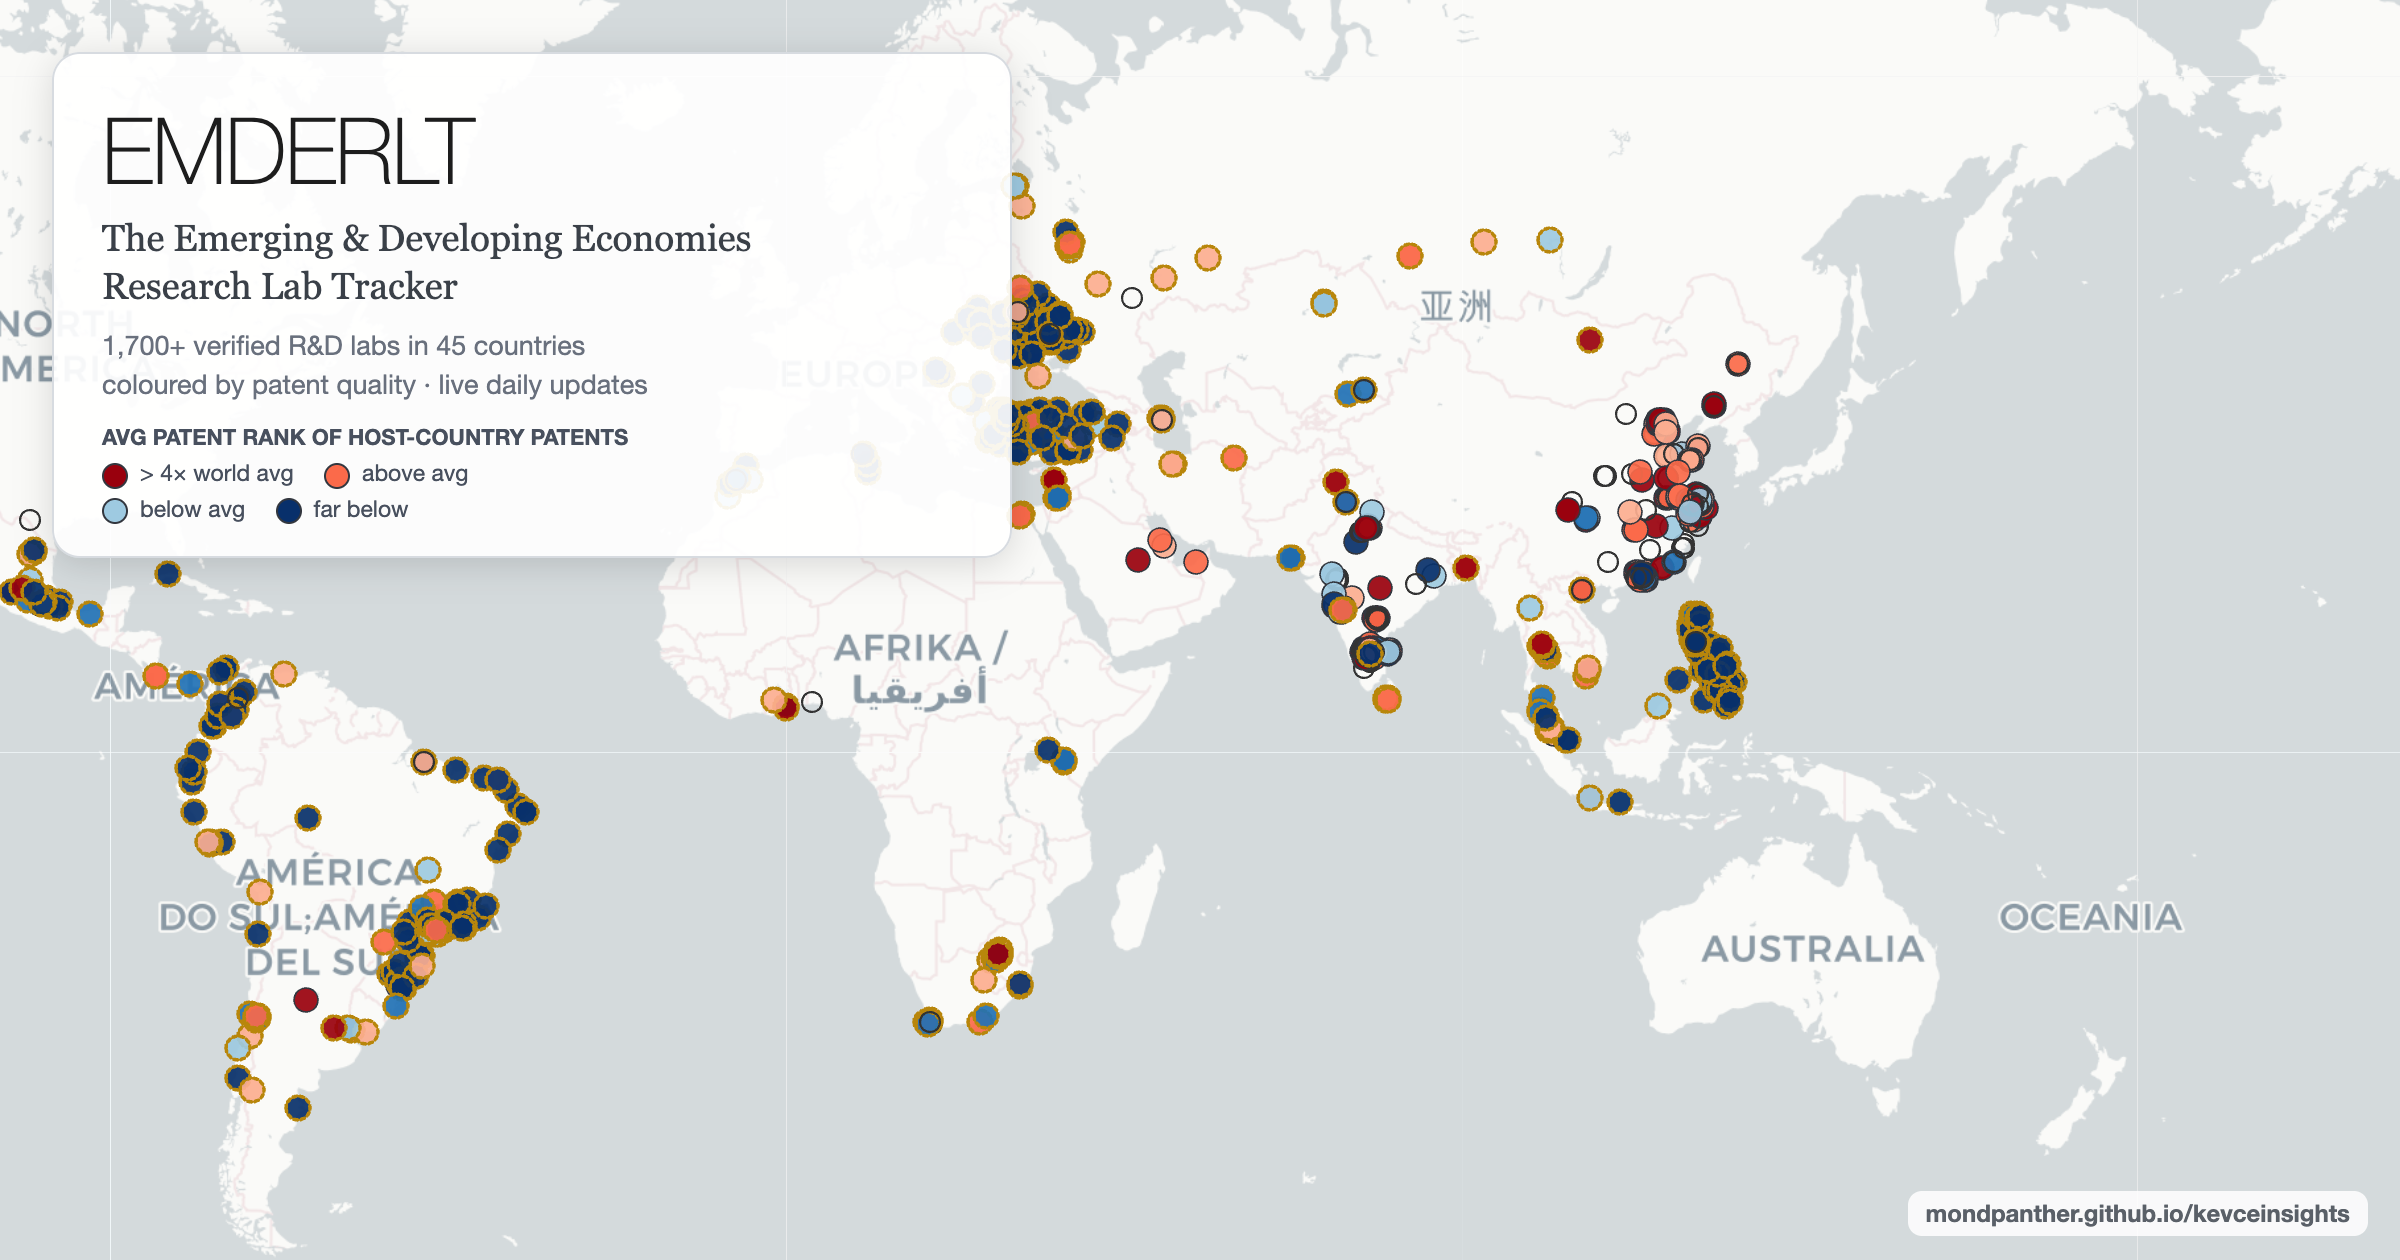
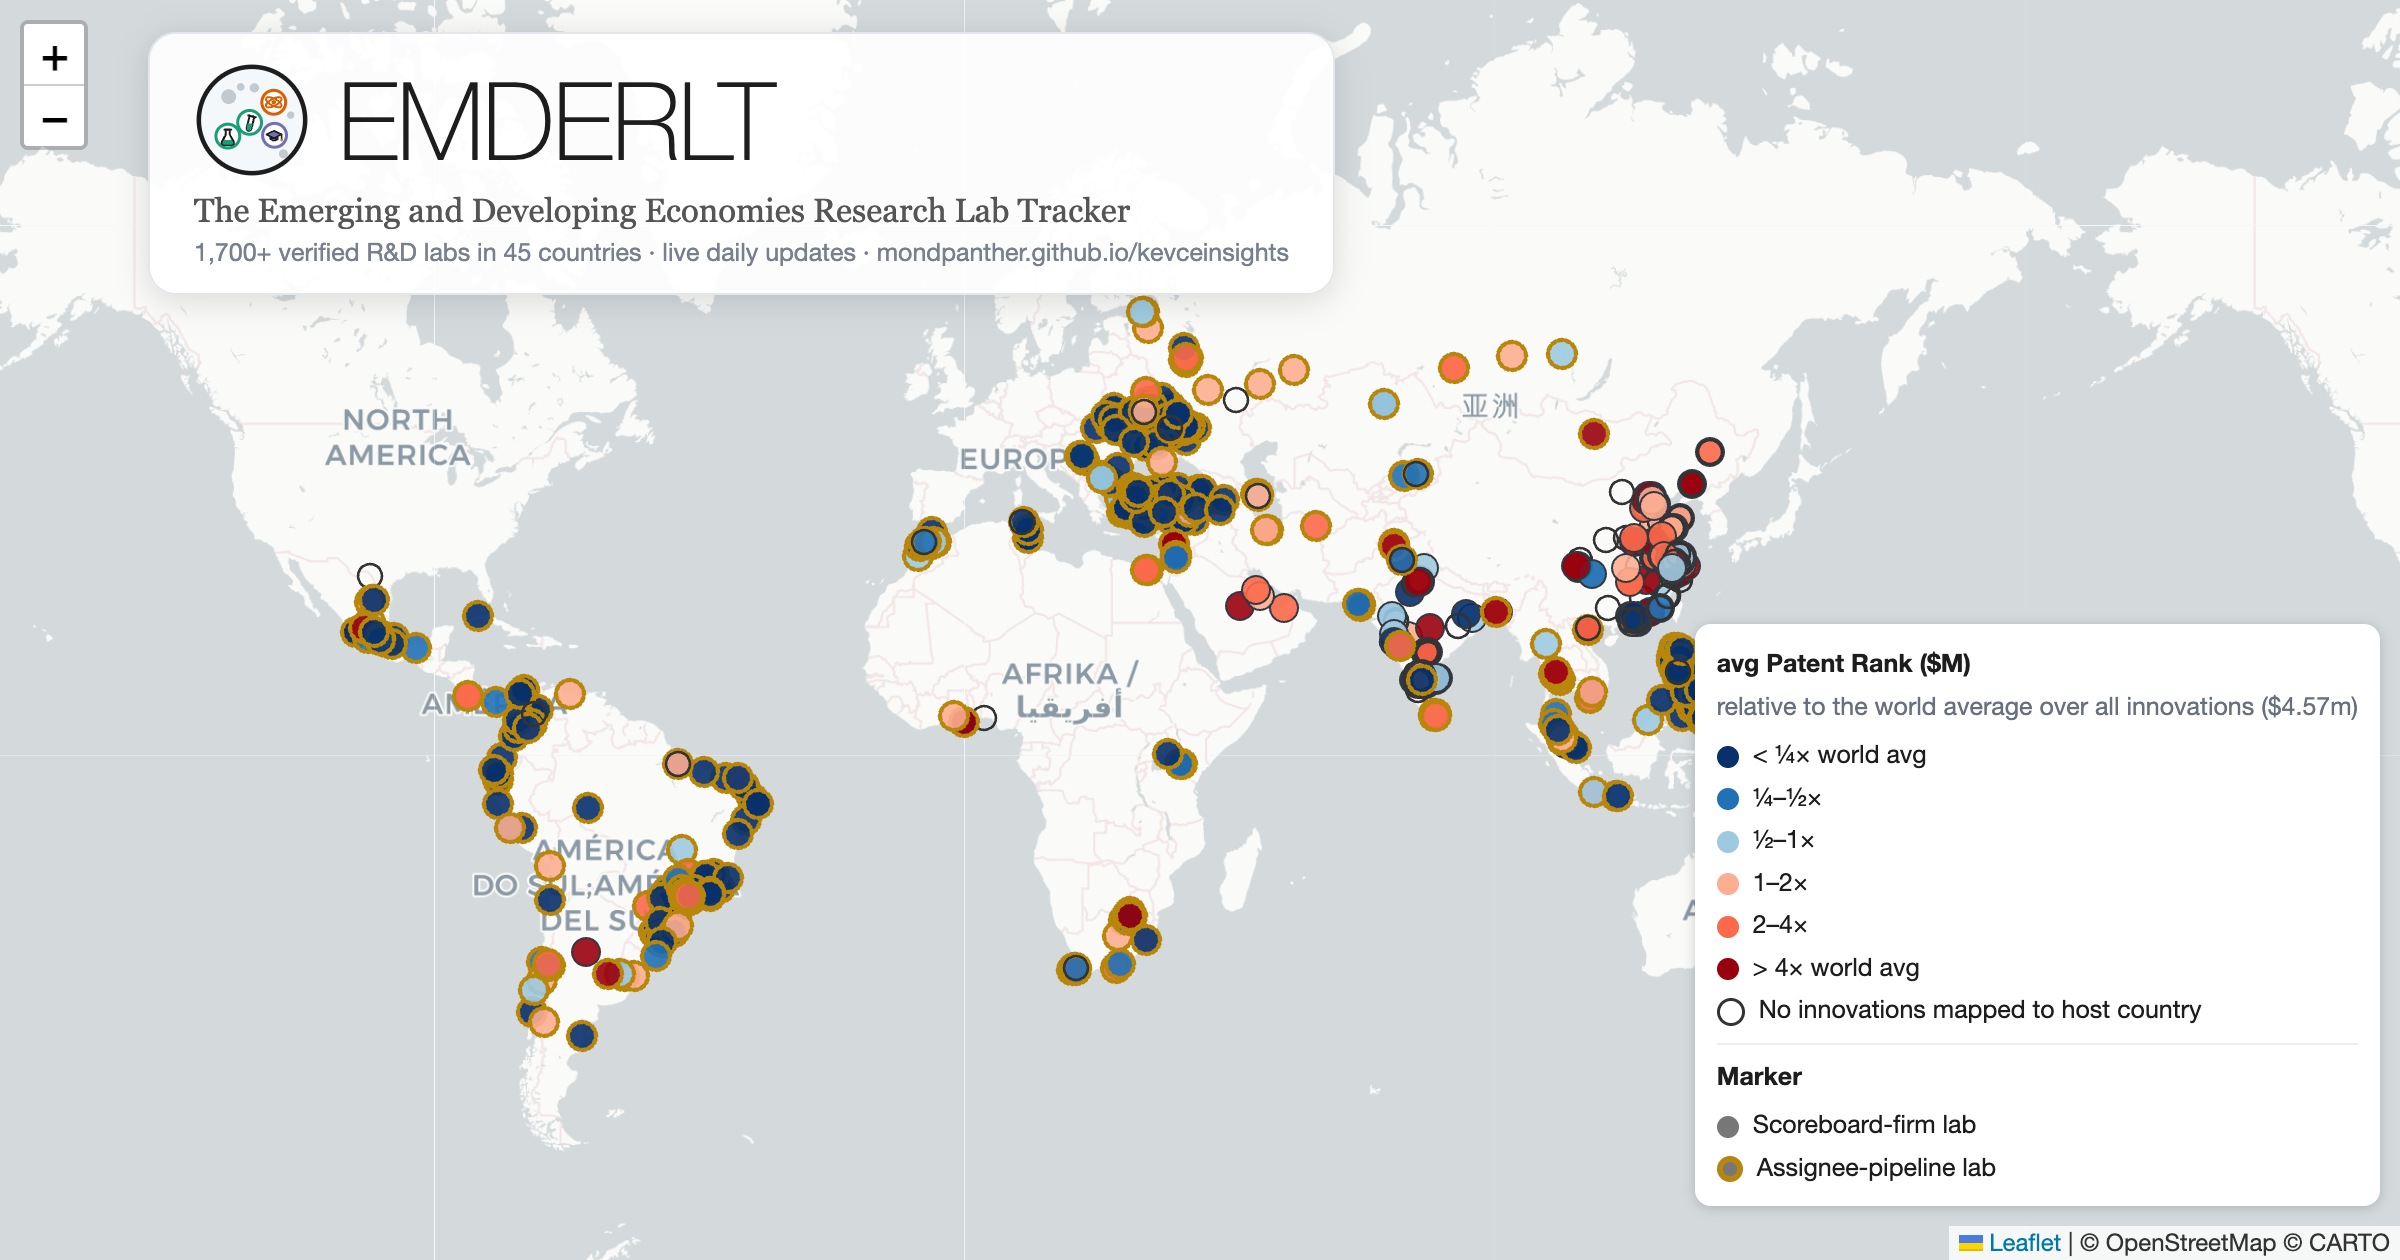
EMDERLT: OG card now mirrors the live tool's UI
The share card reproduces the map exactly as users see it: same CARTO
basemap and framing, real dot styling (quality fills, gold assignee
rings, hollow unmatched circles), the page's own quality/marker legend
bottom-right, zoom control and OSM/CARTO attribution — plus the site
header branding (logo v3 + wordmark + serif subtitle) as an overlay
panel.

diff --git a/og-capture.html b/og-capture.html
@@ -2,60 +2,64 @@
 <html><head>
 <meta charset="utf-8"/>
 <title>EMDERLT OG capture</title>
-<!-- Renders the REAL map (same Leaflet tiles + dot styling as mnc-rd-labs-map.html)
-     at 1200x630 with the title panel, for the social share card.
-     Regenerate with:
+<!-- Renders the REAL map exactly as on mnc-rd-labs-map.html (same tiles, dot
+     styling, legend, zoom control, attribution) at 1200x630 with the site's
+     header branding, for the social share card. Regenerate with:
        "/Applications/Google Chrome.app/Contents/MacOS/Google Chrome" --headless=new \
-         --window-size=1200,630 --hide-scrollbars --virtual-time-budget=12000 \
-         --screenshot=emderlt-og.png http://localhost:8742/og-capture.html -->
+         --window-size=1200,630 --hide-scrollbars --force-device-scale-factor=2 \
+         --virtual-time-budget=15000 --screenshot=emderlt-og.png \
+         http://localhost:8742/og-capture.html -->
 <link rel="stylesheet" href="https://unpkg.com/leaflet@1.9.4/dist/leaflet.css"/>
 <style>
  body{margin:0}
  #map{position:fixed;inset:0;width:1200px;height:630px}
- .leaflet-control-container{display:none}
- #panel{position:fixed;left:26px;top:26px;z-index:1000;width:430px;background:rgba(255,255,255,.92);
-  border:1px solid #d7dbe0;border-radius:14px;box-shadow:0 3px 18px rgba(0,0,0,.14);padding:20px 24px 16px;
-  font-family:"Helvetica Neue",Helvetica,Arial,sans-serif}
- #panel h1{margin:0;font-size:46px;font-weight:300;letter-spacing:-0.015em;color:#1d1d1d;
+ /* legend styled exactly like the live page */
+ .legend{background:#fff;padding:9px 11px;border-radius:8px;box-shadow:0 1px 6px rgba(0,0,0,.18);
+  font:12.5px/1.7 "Lato","Helvetica Neue",Helvetica,Arial,sans-serif;color:#1d1d1d}
+ .legend i{display:inline-block;width:11px;height:11px;border-radius:50%;margin-right:7px;vertical-align:middle}
+ /* header branding panel, matching the site header */
+ #panel{position:fixed;left:74px;top:16px;z-index:1000;background:rgba(255,255,255,.93);
+  border:1px solid #e3e7ec;border-radius:14px;box-shadow:0 3px 16px rgba(0,0,0,.13);padding:14px 22px 13px}
+ #panel .row{display:flex;align-items:center;gap:14px}
+ #panel img{width:58px;height:58px}
+ #panel h1{margin:0;font-size:54px;font-weight:300;letter-spacing:-0.015em;color:#1d1d1d;line-height:1;
   font-family:"Source Sans Pro","Helvetica Neue",Helvetica,Arial,sans-serif}
- #panel .sub{font-family:Georgia,serif;font-size:18.5px;color:#3a4048;margin:4px 0 8px;line-height:1.3}
- #panel .st{font-size:13.5px;color:#69707d;margin:0 0 10px;line-height:1.45}
- #panel .lg{font-size:11.5px;color:#48505e;margin-top:2px}
- #panel .lg b{display:block;margin-bottom:4px;font-size:11px;color:#48505e}
- #panel .lg i{display:inline-block;width:11px;height:11px;border-radius:50%;margin:0 6px 0 0;vertical-align:middle;border:1px solid #33373f}
- #panel .lg span{margin-right:12px;white-space:nowrap}
- #url{position:fixed;right:16px;bottom:12px;z-index:1000;font:600 12px "Helvetica Neue",Helvetica,Arial,sans-serif;color:#5a6068;
-  background:rgba(255,255,255,.85);padding:4px 9px;border-radius:7px}
+ #panel .sub{font-family:Georgia,"Iowan Old Style",serif;font-size:16.5px;color:#555;margin:7px 0 0}
+ #panel .st{font:12.5px "Lato","Helvetica Neue",Helvetica,Arial,sans-serif;color:#79808d;margin-top:4px}
 </style></head><body>
 <div id="map"></div>
 <div id="panel">
- <h1>EMDERLT</h1>
- <div class="sub">The Emerging &amp; Developing Economies Research&nbsp;Lab&nbsp;Tracker</div>
- <div class="st">1,700+ verified R&amp;D labs in 45 countries<br>coloured by patent quality &middot; live daily updates</div>
- <div class="lg"><b>AVG PATENT RANK OF HOST-COUNTRY PATENTS</b>
-  <span><i style="background:#99000d"></i>&gt; 4&times; world avg</span>
-  <span><i style="background:#fb6a4a"></i>above avg</span><br>
-  <span style="margin-top:3px;display:inline-block"><i style="background:#9ecae1"></i>below avg</span>
-  <span><i style="background:#08306b"></i>far below</span>
- </div>
+ <div class="row"><img src="emderlt-logo3.svg" alt=""><h1>EMDERLT</h1></div>
+ <div class="sub">The Emerging and Developing Economies Research Lab Tracker</div>
+ <div class="st">1,700+ verified R&amp;D labs in 45 countries &middot; live daily updates &middot; mondpanther.github.io/kevceinsights</div>
 </div>
-<div id="url">mondpanther.github.io/kevceinsights</div>
 <script src="https://unpkg.com/leaflet@1.9.4/dist/leaflet.js"></script>
 <script>
 fetch('mnc-rd-labs-map.html').then(r=>r.text()).then(function(T){
  const RECS=JSON.parse(T.match(/const RECS=(\[.*?\]);\nconst WORLDQ/s)[1]);
  const WORLDQ=JSON.parse(T.match(/const WORLDQ=(\{.*?\});/s)[1]);
- const map=L.map('map',{zoomControl:false,attributionControl:false,zoomSnap:0.1}).setView([16,55],2.4);
- L.tileLayer('https://{s}.basemaps.cartocdn.com/light_all/{z}/{x}/{y}{r}.png',{subdomains:'abcd',maxZoom:11}).addTo(map);
+ const map=L.map('map',{zoomSnap:0.05,zoomControl:true}).setView([21,40],2.05);
+ L.tileLayer('https://{s}.basemaps.cartocdn.com/light_all/{z}/{x}/{y}{r}.png',
+   {attribution:'&copy; OpenStreetMap &copy; CARTO',subdomains:'abcd',maxZoom:11}).addTo(map);
  const QC=['#08306b','#2171b5','#9ecae1','#fcae91','#fb6a4a','#99000d'],TH=[.25,.5,1,2,4],W=WORLDQ.ev;
  RECS.forEach(function(d){
   const hold=d.source==='holder';
   if(d.pat_ev==null){
-   L.circleMarker([d.lat,d.lon],{radius:4.5,color:'#333',weight:1.1,fillOpacity:0}).addTo(map);
+   L.circleMarker([d.lat,d.lon],{radius:5.5,color:'#333333',weight:1.3,fillColor:'#ffffff',fillOpacity:0,opacity:1}).addTo(map);
   }else{
    let r=d.pat_ev/W,i=0; while(i<5&&r>TH[i])i++;
-   L.circleMarker([d.lat,d.lon],{radius:6,color:hold?'#b8860b':'#33373f',weight:hold?1.8:0.8,
-    fillColor:QC[i],fillOpacity:0.92,dashArray:hold?'2,1.6':null}).addTo(map);
+   L.circleMarker([d.lat,d.lon],{radius:7,color:hold?'#b8860b':'#33373f',weight:hold?2.2:1,
+    fillColor:QC[i],fillOpacity:0.9,opacity:1,dashArray:hold?'2,1.6':null}).addTo(map);
   }});
+ // the live page's quality legend, verbatim
+ const legend=L.control({position:'bottomright'});
+ legend.onAdd=function(){const div=L.DomUtil.create('div','legend');
+  let h='<div style="font-weight:600;margin-bottom:3px">avg Patent Rank ($M)<br><span style="font-weight:400;color:#69707d">relative to the world average over all innovations ($4.57m)</span></div>';
+  const LBL=['&lt; &frac14;&times; world avg','&frac14;&ndash;&frac12;&times;','&frac12;&ndash;1&times;','1&ndash;2&times;','2&ndash;4&times;','&gt; 4&times; world avg'];
+  for(let i=0;i<6;i++) h+='<div><i style="background:'+QC[i]+'"></i>'+LBL[i]+'</div>';
+  h+='<div><i style="background:#fff;border:1.5px solid #333"></i>No innovations mapped to host country</div>';
+  h+='<div style="font-weight:600;margin:6px 0 3px;border-top:1px solid #eee;padding-top:5px">Marker</div><div><i style="background:#777"></i>Scoreboard-firm lab</div><div><i style="background:#777;box-shadow:0 0 0 2px #b8860b inset;border:1px solid #b8860b"></i>Assignee-pipeline lab</div>';
+  div.innerHTML=h;return div;};
+ legend.addTo(map);
 });
 </script></body></html>
